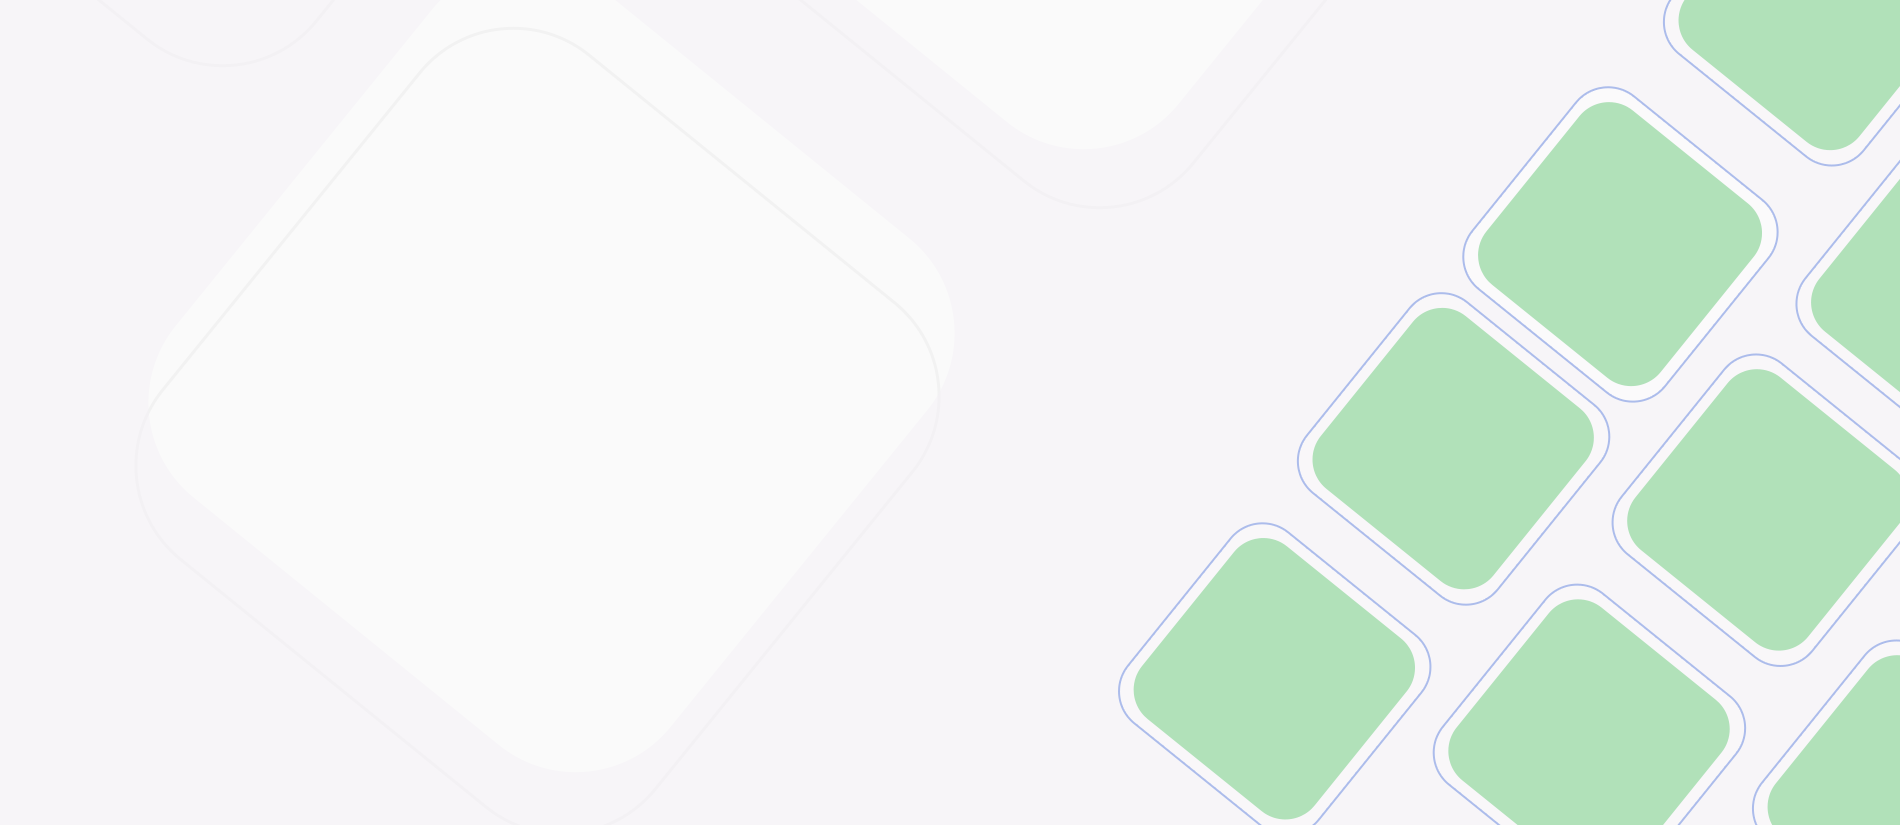
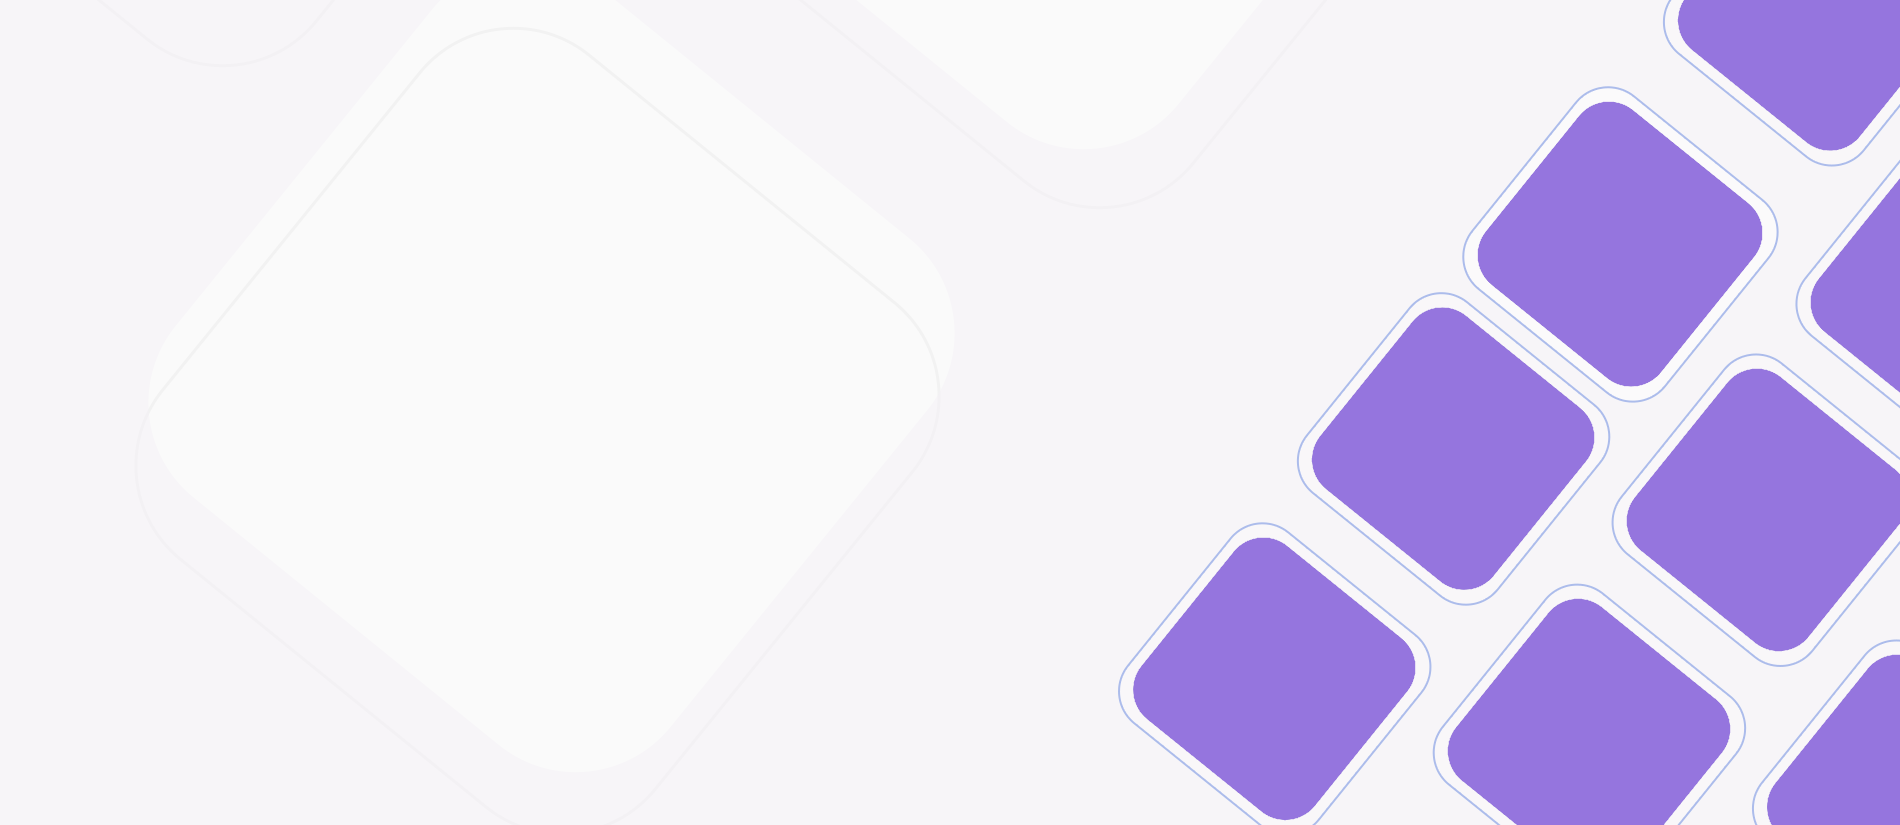
updates

Changed region(s): [[0.6832, 0.1212, 1.0, 0.7879], [0.59, 0.6364, 1.0, 1.0], [0.8695, 0.0, 1.0, 0.1818]]

diff --git a/projecFinal/src/pages/404/assets/error-page.css b/projecFinal/src/pages/404/assets/error-page.css
@@ -113,7 +113,7 @@ h6 {
 .page-section .content-detail .sub-title,
 .page-section .content-detail .detail-text {
   display: block;
-  color: #5076db;
+  color: #050b1a;
   text-align: center;
 }
 .page-section .content-detail .sub-title {
@@ -123,7 +123,7 @@ h6 {
 }
 .page-section .content-detail .global-title {
   display: block;
-  color: #5bc86d;
+  color: #9575de;
   font-size: 150px;
   font-weight: 800;
 }
@@ -172,13 +172,12 @@ h6 {
 }
 .page-section .content-detail .back-btn .btn {
   padding: 8px 15px;
-  color: #5076db;
-  border: 1px solid #5076db;
+  color: #9575de;
+  border: 1px solid #9575de;
   border-radius: 30px;
   font-size: 14px;
 }
 .page-section .content-detail .back-btn .btn:hover {
-  background-color: #5076db;
+  background-color: #9575de;
   color: #fff;
 }
-/*# sourceMappingURL=error-page.css.map */

diff --git a/projecFinal/src/pages/404/index.jsx b/projecFinal/src/pages/404/index.jsx
@@ -2,6 +2,7 @@ import React, { useEffect } from "react";
 import "./assets/bootstrap.css";
 import "./assets/error-page-responsive.css";
 import "./assets/error-page.css";
+import { Link } from "react-router-dom";
 const NotFound = () => {
   return (
     <div>
@@ -20,9 +21,9 @@ const NotFound = () => {
                 server has invalid syntax.
               </p>
               <div className="back-btn">
-                <a href="index.html" className="btn">
-                  Back to Home
-                </a>
+                <Link className="btn" to={"/home"}>
+                  Inicio
+                </Link>
               </div>
             </div>
           </div>

diff --git a/Api/api.js b/Api/api.js
@@ -8,7 +8,7 @@ import dotenv from "dotenv"; // Importe o dotenv
 dotenv.config();
 
 const app = express();
-const port = process.env.PORT || 5000;
+const port = process.env.PORT || 8080;
 
 // Configurar a chave da API do OpenAI
 const openai = new OpenAI({

diff --git a/projecFinal/src/pages/404/assets/bootstrap.css b/projecFinal/src/pages/404/assets/bootstrap.css
@@ -11177,5 +11177,3 @@ fieldset:disabled .btn {
     display: none !important;
   }
 }
-
-/*# sourceMappingURL=bootstrap.css.map */

diff --git a/projecFinal/src/pages/404/assets/error-page-responsive.css b/projecFinal/src/pages/404/assets/error-page-responsive.css
@@ -28,4 +28,3 @@
     font-size: 22px;
   }
 }
-/*# sourceMappingURL=error-page-responsive.css.map */
